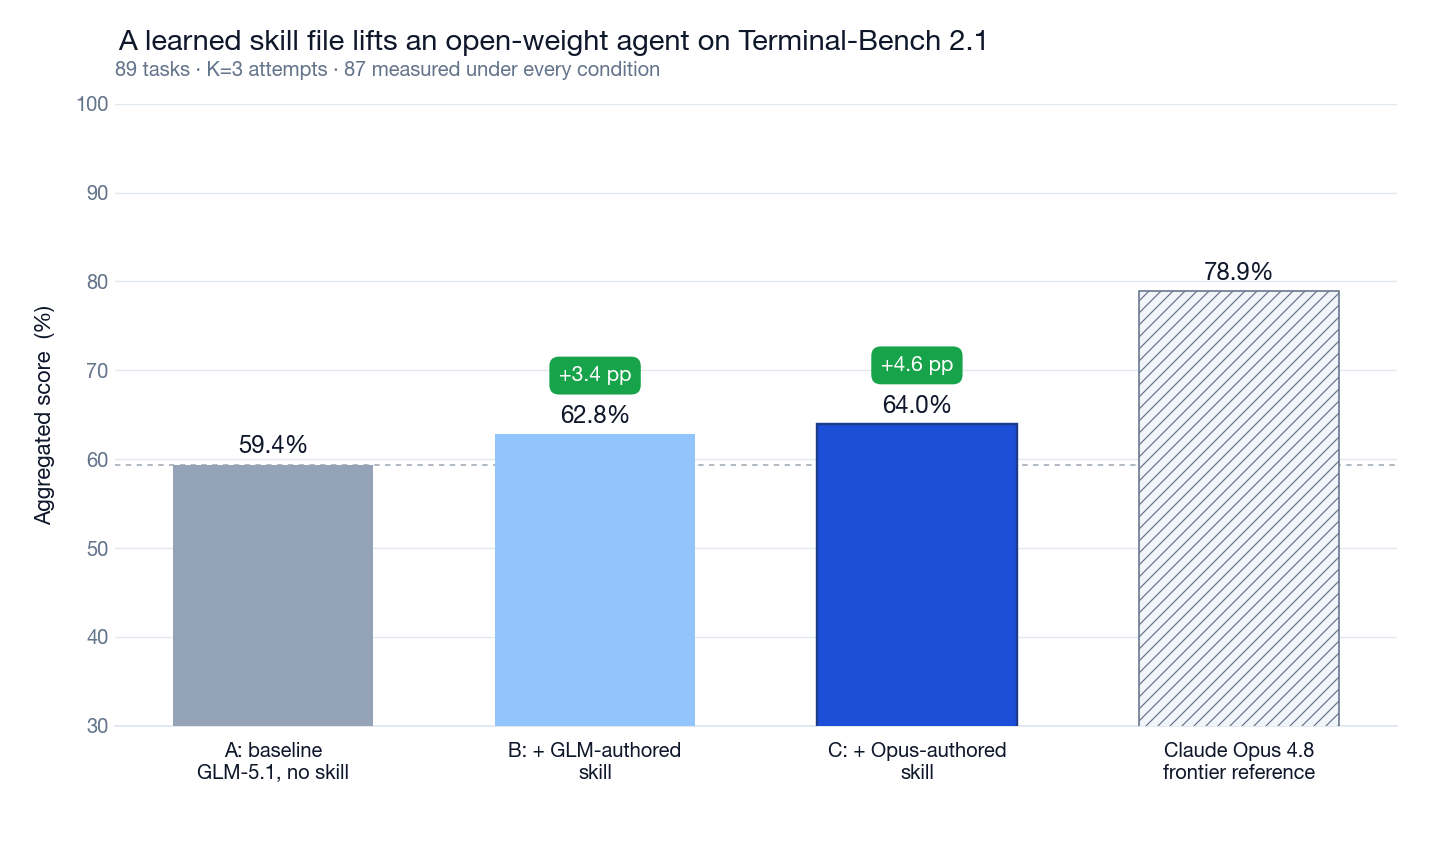
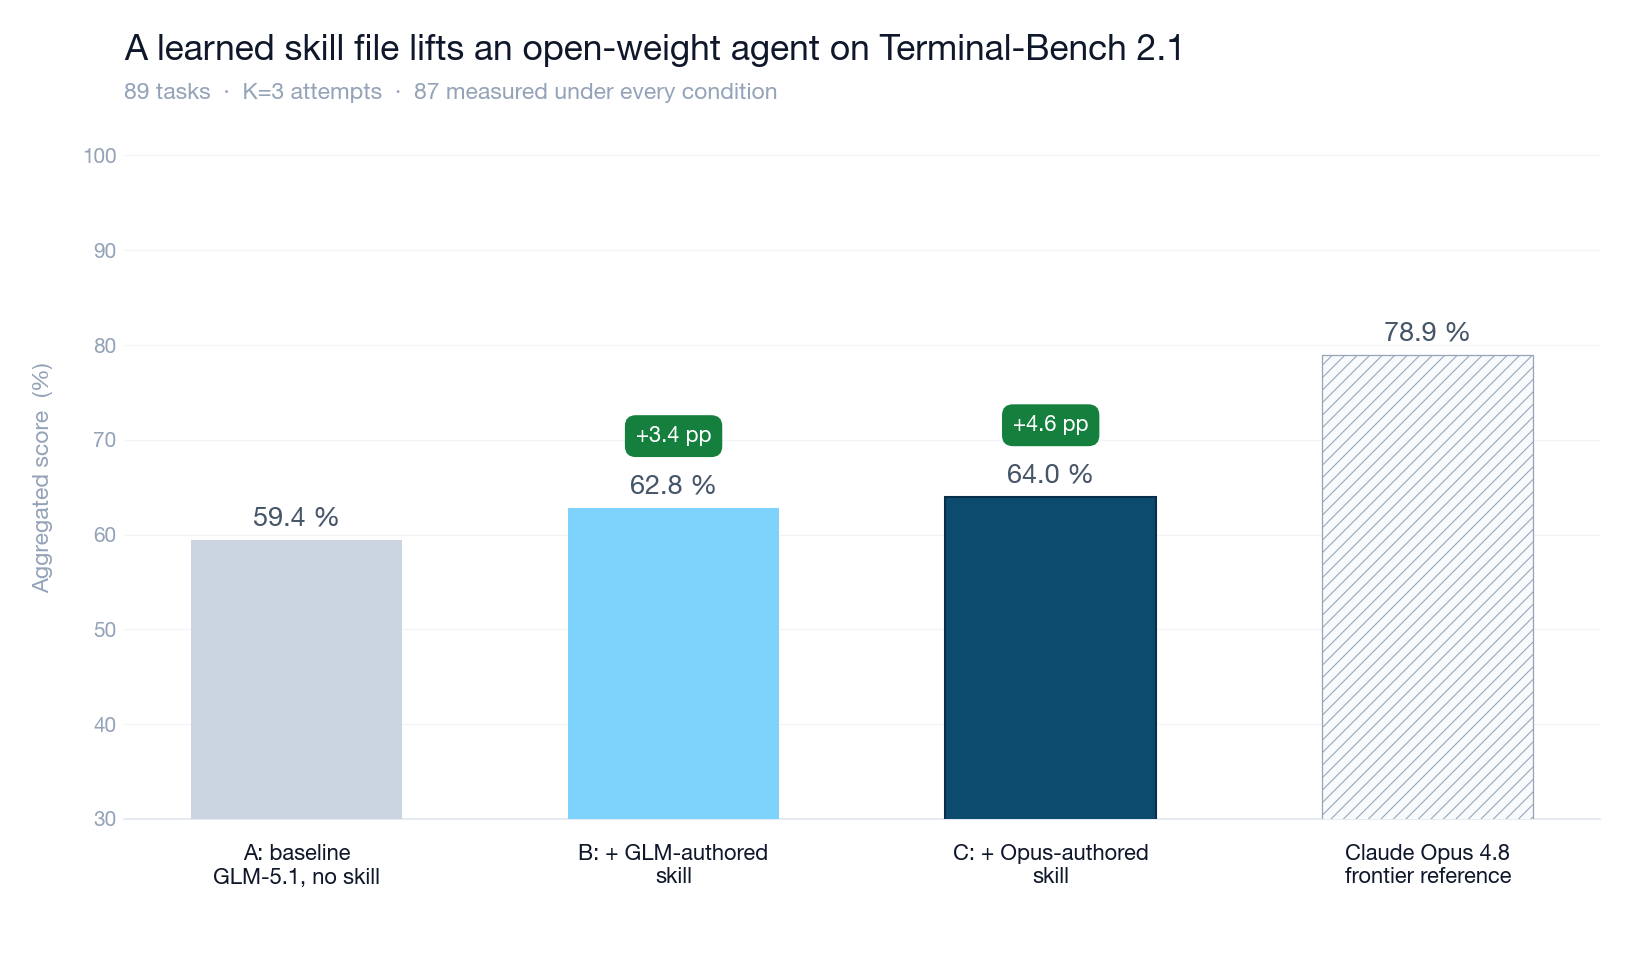
Editorial refresh on the accuracy plot — refined palette, typography, whitespace
The previous chart was competent but read as a matplotlib output rather
than an editorial figure. Rebuilt the plot script around an editorial-
publication aesthetic, with three principles:

  1. Single accent color carries the focus. The headline (C, Opus-
     authored skill) is deep navy (sky-900) -- the only saturated color
     in the chart. Everything else fades back:
       - A baseline: slate-300 (was slate-400) -- gentler grey
       - B GLM-skill: sky-300 -- soft mid-tone that bridges A and C
         without competing
       - Opus 4.8 frontier: slate-50 fill + slate-400 hatch -- nearly
         invisible, clearly an external reference
     The eye now lands on the C bar within the first half-second.

  2. Typography refined for editorial register. Title bumped from 14.5
     to 17 pt with more horizontal padding. Value labels (62.8 %, etc.)
     dropped from bold black to semibold slate-600 -- they read but
     don't shout. Lift pills (+3.4 pp, +4.6 pp) muted from green-600 to
     green-700, slightly more rounded.

  3. Less visual noise. Removed the dashed horizontal baseline rule
     entirely (bar A's height and value label already anchor the eye).
     Gridlines dropped from slate-200 to slate-100 -- almost invisible
     unless you go looking. Bar width narrowed from 0.62 to 0.56 for
     more breathing room between bars. Figsize bumped from 10x6 to
     11x6.5 at 150 DPI (was 144) for sharper output.
[…]

diff --git a/scripts/plot.py b/scripts/plot.py
@@ -2,18 +2,20 @@
 # SPDX-License-Identifier: Apache-2.0
 """Generate the post-1 accuracy plot from data/canonical-results.json.
 
-Output: assets/post-1-accuracy.png (1200 x 720 px, 144 DPI).
+Output: assets/post-1-accuracy.png (1500 x 900 px, 150 DPI).
 Re-run any time the canonical results regenerate to keep the plot in sync.
 
-Design choices:
-- Y axis truncated at 30 (declared in the subtitle); the differences
-  between conditions are 3-19 pp and look invisible against a 0-100 scale.
-- Two-tone blue family for the skill conditions (B lighter, C darker)
-  to encode "B comes first, C is the better artifact" at a glance.
-- Frontier reference uses a hatched amber fill to signal "external,
-  for comparison" without competing visually with our bars.
-- Lift annotations live in small green pills above the skill bars so
-  the headline "+4.6 pp" reads at thumbnail size.
+Editorial design choices:
+- Single accent: the deep navy on bar C is the visual focus; everything
+  else fades back. The baseline is a near-neutral cool grey; the frontier
+  reference is a quiet hatched bar; B is a soft mid-tone that bridges
+  A and C without competing with C.
+- Typography: large editorial title; thin italic subtitle; value labels
+  in muted slate, not bold black; lift deltas in small rounded green pills.
+- Negative space: generous padding around bars and title, lighter grid,
+  no axis frames except a hairline bottom rule.
+- No dashed baseline line: bar A's height + its value label already
+  anchor the eye, so the extra horizontal rule was schoolbook clutter.
 
 Usage::
 
@@ -26,13 +28,13 @@ import json
 from pathlib import Path
 
 import matplotlib.pyplot as plt
+from matplotlib.patches import FancyBboxPatch
 
 ROOT = Path(__file__).resolve().parent.parent
 DATA = ROOT / "data"
 ASSETS = ROOT / "assets"
 ASSETS.mkdir(exist_ok=True)
 
-# Use the nicest system sans-serif available
 plt.rcParams.update({
     "font.family": "sans-serif",
     "font.sans-serif": ["Helvetica Neue", "Helvetica", "Inter", "Arial", "DejaVu Sans"],
@@ -40,16 +42,19 @@ plt.rcParams.update({
     "axes.labelsize": 11,
 })
 
-# Color palette
-COLOR_BASELINE      = "#94a3b8"   # slate-400  -- neutral control
-COLOR_B             = "#93c5fd"   # blue-300   -- first skill condition (soft)
-COLOR_C             = "#1d4ed8"   # blue-700   -- best skill condition (headline)
-COLOR_FRONTIER_FILL = "#f1f5f9"   # slate-100  -- pale fill for external reference
-COLOR_FRONTIER_HATCH = "#64748b"  # slate-500  -- subtle hatch for external reference
-COLOR_LIFT          = "#16a34a"   # green-600  -- positive delta pill
-COLOR_TEXT          = "#0f172a"   # slate-900
-COLOR_MUTED         = "#64748b"   # slate-500
-COLOR_GRID          = "#e2e8f0"   # slate-200
+# Refined editorial palette
+COLOR_BASELINE      = "#cbd5e1"   # slate-300  -- neutral control, recedes
+COLOR_B             = "#7dd3fc"   # sky-300    -- soft mid-tone
+COLOR_C             = "#0c4a6e"   # sky-900    -- deep navy, the visual focus
+COLOR_C_OUTLINE     = "#082f49"   # sky-950    -- subtle outline on C
+COLOR_FRONTIER_FILL = "#f8fafc"   # slate-50   -- near-white, recedes
+COLOR_FRONTIER_HATCH = "#94a3b8"  # slate-400  -- subtle hatch
+COLOR_LIFT          = "#15803d"   # green-700  -- muted, more sophisticated
+COLOR_TEXT_HEAD     = "#0f172a"   # slate-900  -- title
+COLOR_TEXT_VALUE    = "#475569"   # slate-600  -- value labels
+COLOR_TEXT_MUTED    = "#94a3b8"   # slate-400  -- subtitle, axis ticks
+COLOR_GRID          = "#f1f5f9"   # slate-100  -- almost invisible
+COLOR_RULE          = "#e2e8f0"   # slate-200  -- bottom axis hairline
 
 
 def main() -> int:
@@ -62,77 +67,76 @@ def main() -> int:
         (f"{frontier['name'].split(' on')[0]}\nfrontier reference",  100 * frontier["pass_rate"],                  COLOR_FRONTIER_FILL, "////"),
     ]
     labels, values, colors, hatches = zip(*series)
-    baseline_val = values[0]
 
-    fig, ax = plt.subplots(figsize=(10, 6), dpi=144)
+    fig, ax = plt.subplots(figsize=(11, 6.5), dpi=150)
     fig.patch.set_facecolor("white")
 
-    # Bars
+    # Bars — slightly narrower, more whitespace between
     bar_artists = ax.bar(
         labels, values,
         color=colors, edgecolor="white", linewidth=0,
-        width=0.62, zorder=3,
+        width=0.56, zorder=3,
     )
-    # Style the frontier-reference bar: pale fill, subtle slate hatch, thin outline
+
+    # Style the frontier-reference bar (pale fill, subtle hatch)
     plt.rcParams["hatch.color"] = COLOR_FRONTIER_HATCH
-    plt.rcParams["hatch.linewidth"] = 0.6
+    plt.rcParams["hatch.linewidth"] = 0.5
     for bar, hatch in zip(bar_artists, hatches):
         if hatch:
             bar.set_hatch(hatch)
-            bar.set_edgecolor(COLOR_MUTED)
-            bar.set_linewidth(0.8)
-    # Subtle outline on the headline (C) bar to draw the eye
-    bar_artists[2].set_edgecolor("#1e3a8a")
-    bar_artists[2].set_linewidth(1.2)
+            bar.set_edgecolor(COLOR_TEXT_MUTED)
+            bar.set_linewidth(0.6)
+    # Faint outline on the headline (C) bar to draw the eye
+    bar_artists[2].set_edgecolor(COLOR_C_OUTLINE)
+    bar_artists[2].set_linewidth(1.0)
 
-    # Value labels on top of each bar
+    # Value labels — semibold, muted slate (not bold black)
     for bar, val in zip(bar_artists, values):
         ax.text(
-            bar.get_x() + bar.get_width()/2, val + 0.7, f"{val:.1f}%",
-            ha="center", va="bottom", fontsize=12, fontweight="bold", color=COLOR_TEXT, zorder=5,
+            bar.get_x() + bar.get_width()/2, val + 1.0, f"{val:.1f} %",
+            ha="center", va="bottom", fontsize=13, fontweight="600",
+            color=COLOR_TEXT_VALUE, zorder=5,
         )
 
-    # Lift pills above the skill bars (B and C) -- offset enough to clear the value label
+    # Lift pills above the skill bars (B and C) — muted green, rounded
+    baseline_val = values[0]
     for i in (1, 2):
         delta = values[i] - baseline_val
         ax.annotate(
             f"+{delta:.1f} pp",
-            xy=(i, values[i] + 5.5),
+            xy=(i, values[i] + 6.5),
             ha="center", va="bottom",
-            fontsize=10.5, color="white", fontweight="bold",
-            bbox=dict(boxstyle="round,pad=0.45", facecolor=COLOR_LIFT, edgecolor="none"),
+            fontsize=10.5, color="white", fontweight="600",
+            bbox=dict(boxstyle="round,pad=0.5", facecolor=COLOR_LIFT, edgecolor="none"),
             zorder=6,
         )
 
-    # Dashed baseline reference line (no inline label -- bar A's "59.4 %" value label already names it)
-    ax.axhline(baseline_val, linestyle=(0, (3, 3)), linewidth=0.9, color=COLOR_MUTED, alpha=0.55, zorder=1)
-
     # Axes
-    ax.set_ylabel("Aggregated score  (%)", fontsize=11, color=COLOR_TEXT, labelpad=10)
-    ax.set_ylim(30, 100)
+    ax.set_ylabel("Aggregated score  (%)", fontsize=11, color=COLOR_TEXT_MUTED, labelpad=14, fontweight="500")
+    ax.set_ylim(30, 102)
     ax.set_yticks(range(30, 101, 10))
-    ax.tick_params(axis="y", labelsize=10, colors=COLOR_MUTED, length=0)
-    ax.tick_params(axis="x", labelsize=10, colors=COLOR_TEXT, pad=8, length=0)
+    ax.tick_params(axis="y", labelsize=10, colors=COLOR_TEXT_MUTED, length=0)
+    ax.tick_params(axis="x", labelsize=10.5, colors=COLOR_TEXT_HEAD, pad=12, length=0)
     for spine in ("top", "right", "left"):
         ax.spines[spine].set_visible(False)
-    ax.spines["bottom"].set_color(COLOR_GRID)
-    ax.spines["bottom"].set_linewidth(1)
-    ax.grid(axis="y", linestyle="-", linewidth=0.7, color=COLOR_GRID, zorder=0)
+    ax.spines["bottom"].set_color(COLOR_RULE)
+    ax.spines["bottom"].set_linewidth(0.8)
+    ax.grid(axis="y", linestyle="-", linewidth=0.6, color=COLOR_GRID, zorder=0)
     ax.set_axisbelow(True)
 
-    # Title + subtitle (title first, subtitle below — note the y-axis truncation here)
+    # Title and subtitle — editorial scale
     fig.suptitle(
         "A learned skill file lifts an open-weight agent on Terminal-Bench 2.1",
-        fontsize=14.5, fontweight="bold", color=COLOR_TEXT, x=0.082, y=0.965, ha="left",
+        fontsize=17, fontweight="bold", color=COLOR_TEXT_HEAD, x=0.075, y=0.965, ha="left",
     )
     ax.set_title(
-        "89 tasks · K=3 attempts · 87 measured under every condition",
-        fontsize=10, color=COLOR_MUTED, style="italic", pad=14, loc="left",
+        "89 tasks  ·  K=3 attempts  ·  87 measured under every condition",
+        fontsize=11, color=COLOR_TEXT_MUTED, style="italic", pad=18, loc="left",
     )
 
-    plt.subplots_adjust(left=0.08, right=0.97, top=0.88, bottom=0.16)
+    plt.subplots_adjust(left=0.075, right=0.97, top=0.86, bottom=0.16)
     out = ASSETS / "post-1-accuracy.png"
-    plt.savefig(out, dpi=144, facecolor="white")
+    plt.savefig(out, dpi=150, facecolor="white")
     print(f"Wrote {out}")
     return 0
 